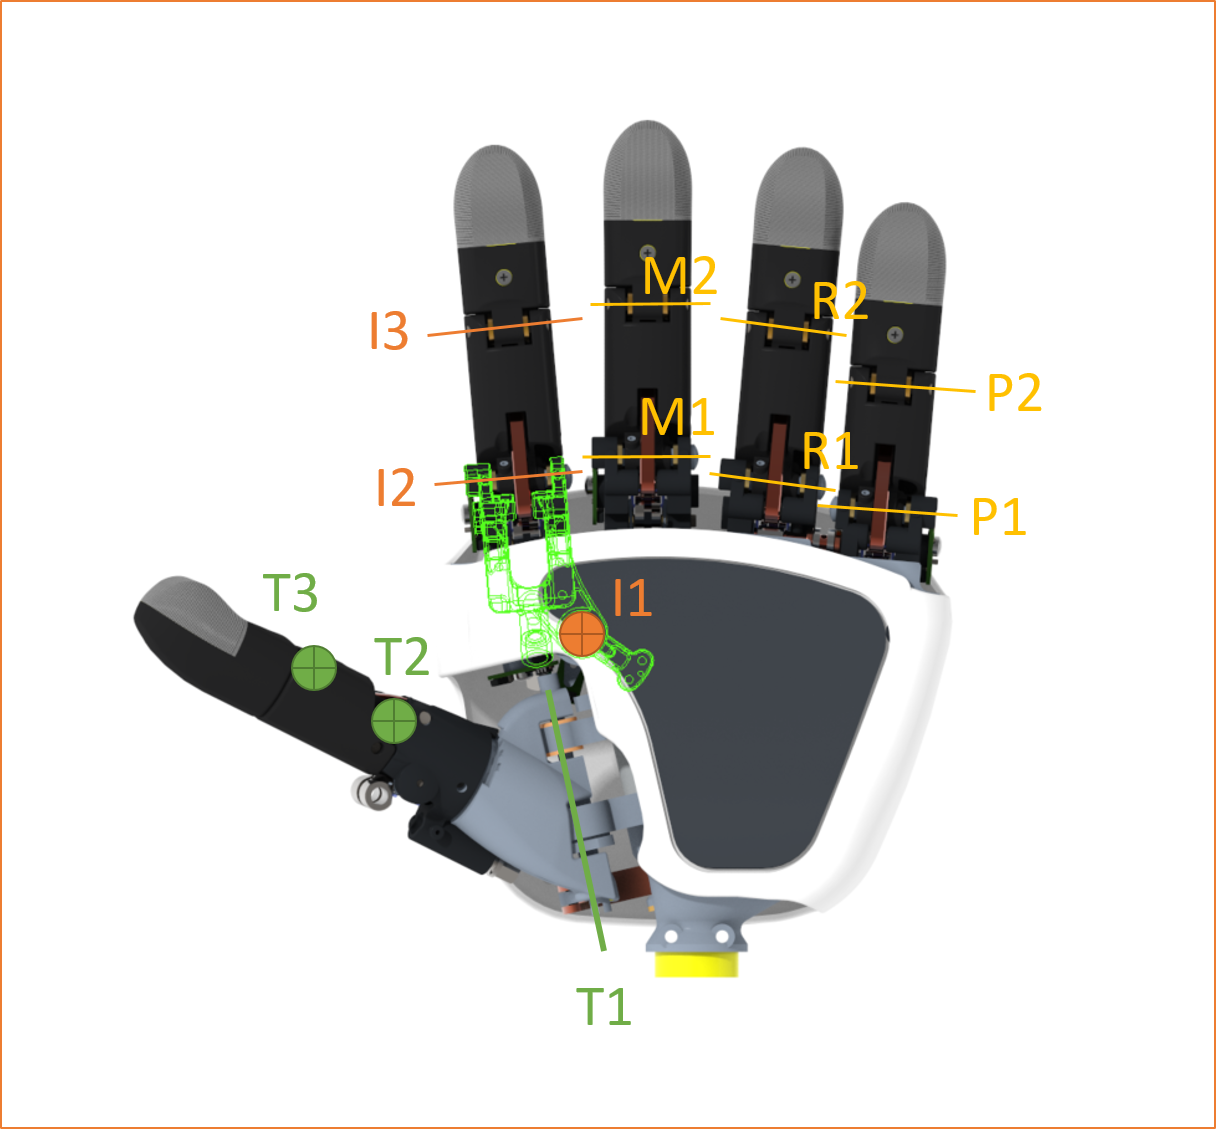
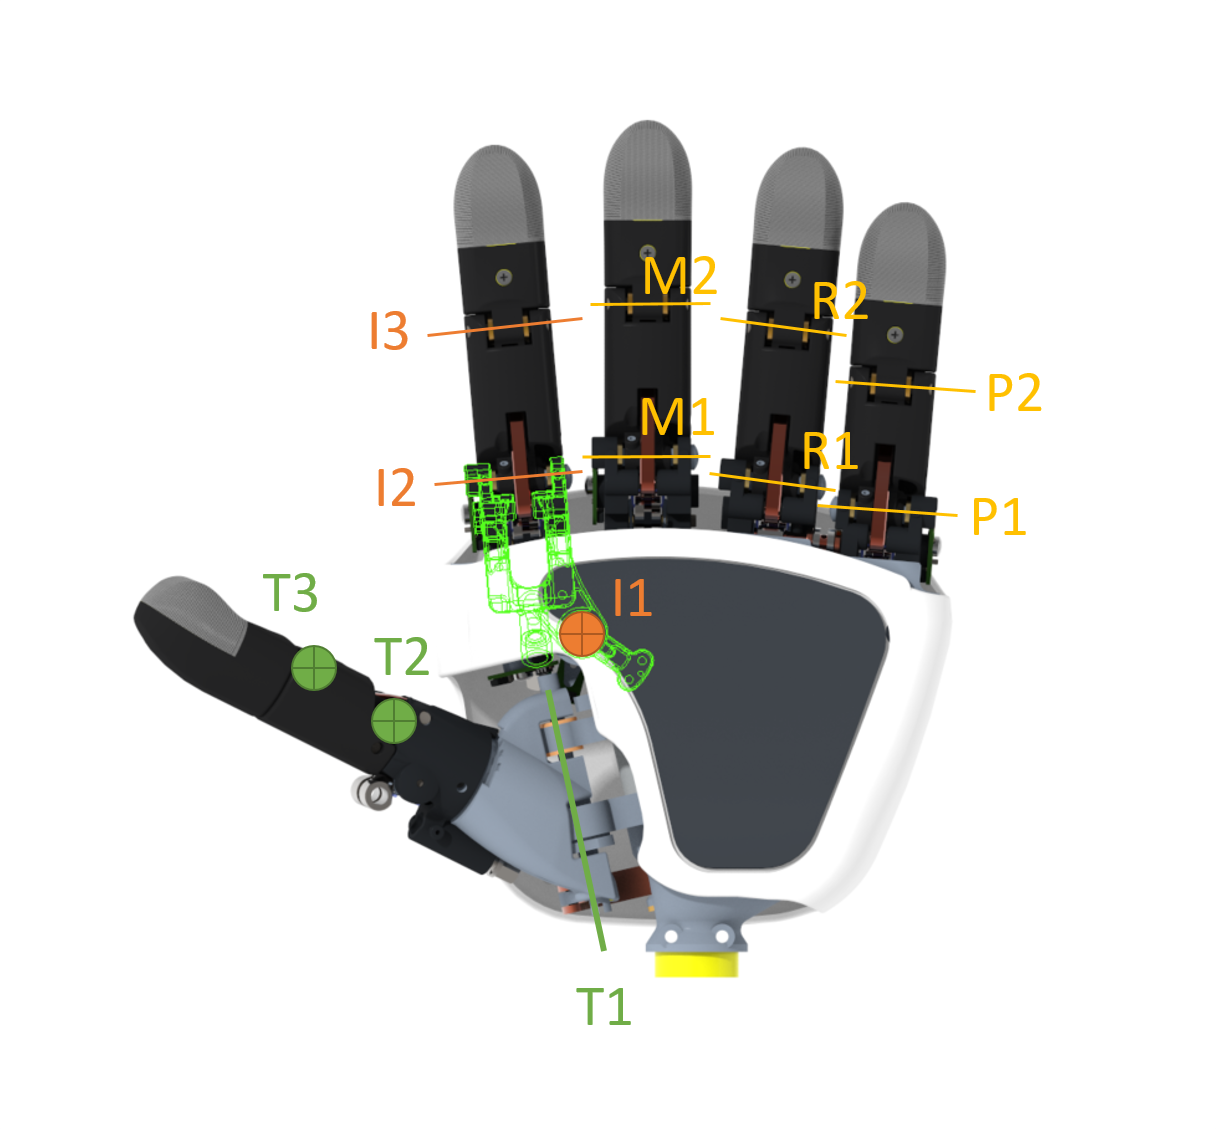
fixing joint names, image border to white (#239)

Changed region(s): [[0.0, 0.992, 1.0, 1.0], [0.9688, 0.0, 1.0, 0.031], [0.0, 0.0, 0.0312, 0.031]]

diff --git a/docs/hands/hands_mk5.md b/docs/hands/hands_mk5.md
@@ -1,23 +1,23 @@
 # Hand Mk5 joints Specs
 
-| Joint number  | Motors | Identifier    | Type | Parent link                 | Child link                  | Notes           |
-|---------------|--------|---------------|------|-----------------------------|-----------------------------|-----------------|
-|               |        | l_elbow_pitch |  ROT | sim_ecub_l_upperarm         | sim_ecub_l_forearm          | E1 in figure    |
-|               |        | l_wrist_yaw   |  ROT | sim_ecub_l_forearm          | sim_ecub_l_wrist_1          | W1 in fig.      |
-|               |        | l_wrist_roll  |  ROT | sim_ecub_l_wrist_1          | sim_ecub_l_wrist_2          | W2 in fig.      |
-|               |        | l_wrist_pitch |  ROT | sim_ecub_l_wrist_2          | sim_ecub_l_hand_palm        | W3 in fig.      |
-|               |        | l_thumb_add   |  ROT | sim_ecub_l_hand_palm        | sim_ecub_l_hand_thumb_1     | T1 in fig.      |
-|               |        | l_thumb_prox  |  ROT | sim_ecub_l_hand_thumb_1     | sim_ecub_l_hand_thumb_2     | T2 in fig.      |
-|               |        | l_thumb_dist  |  ROT | sim_ecub_l_hand_thumb_2     | sim_ecub_l_hand_thumb_3     | T3 in fig.      |
-|               |        | l_index_add   |  ROT | sim_ecub_l_hand_palm        | sim_ecub_l_hand_index_1     | I1 in fig.      |
-|               |        | l_index_prox  |  ROT | sim_ecub_l_hand_index_1     | sim_ecub_l_hand_index_2     | I2 in fig.      |
-|               |        | l_index_dist  |  ROT | sim_ecub_l_hand_index_2     | sim_ecub_l_hand_index_3     | I3 in fig.      |
-|               |        | l_middle_prox |  ROT | sim_ecub_l_hand_palm        | sim_ecub_l_hand_middle_1    | M1 in fig.      |
-|               |        | l_middle_dist |  ROT | sim_ecub_l_hand_middle_1    | sim_ecub_l_hand_middle_2    | M2 in fig.      |
-|               |        | l_ring_prox   |  ROT | sim_ecub_l_hand_palm        | sim_ecub_l_hand_ring_1      | R1 in fig.      |
-|               |        | l_ring_dist   |  ROT | sim_ecub_l_hand_ring_1      | sim_ecub_l_hand_ring_2      | R2 in fig.      |
-|               |        | l_pinkie_prox |  ROT | sim_ecub_l_hand_palm        | sim_ecub_l_hand_pinkie_1    | P1 in fig.      |
-|               |        | l_pinkie_dist |  ROT | sim_ecub_l_hand_pinkie_1    | sim_ecub_l_hand_pinkie_2    | P2 in fig.      |
+| Joint number  | Motors | Identifier    | Type | Parent link        | Child link         | Notes           |
+|---------------|--------|---------------|------|--------------------|--------------------|-----------------|
+|               |        | l_elbow_pitch |  ROT | l_upperarm         | l_forearm          | E1 in figure    |
+|               |        | l_wrist_yaw   |  ROT | l_forearm          | l_wrist_1          | W1 in fig.      |
+|               |        | l_wrist_roll  |  ROT | l_wrist_1          | l_wrist_2          | W2 in fig.      |
+|               |        | l_wrist_pitch |  ROT | l_wrist_2          | l_hand_palm        | W3 in fig.      |
+|               |        | l_thumb_add   |  ROT | l_hand_palm        | l_hand_thumb_1     | T1 in fig.      |
+|               |        | l_thumb_prox  |  ROT | l_hand_thumb_1     | l_hand_thumb_2     | T2 in fig.      |
+|               |        | l_thumb_dist  |  ROT | l_hand_thumb_2     | l_hand_thumb_3     | T3 in fig.      |
+|               |        | l_index_add   |  ROT | l_hand_palm        | l_hand_index_1     | I1 in fig.      |
+|               |        | l_index_prox  |  ROT | l_hand_index_1     | l_hand_index_2     | I2 in fig.      |
+|               |        | l_index_dist  |  ROT | l_hand_index_2     | l_hand_index_3     | I3 in fig.      |
+|               |        | l_middle_prox |  ROT | l_hand_palm        | l_hand_middle_1    | M1 in fig.      |
+|               |        | l_middle_dist |  ROT | l_hand_middle_1    | l_hand_middle_2    | M2 in fig.      |
+|               |        | l_ring_prox   |  ROT | l_hand_palm        | l_hand_ring_1      | R1 in fig.      |
+|               |        | l_ring_dist   |  ROT | l_hand_ring_1      | l_hand_ring_2      | R2 in fig.      |
+|               |        | l_pinkie_prox |  ROT | l_hand_palm        | l_hand_pinkie_1    | P1 in fig.      |
+|               |        | l_pinkie_dist |  ROT | l_hand_pinkie_1    | l_hand_pinkie_2    | P2 in fig.      |
 
 
 <p align="center">
